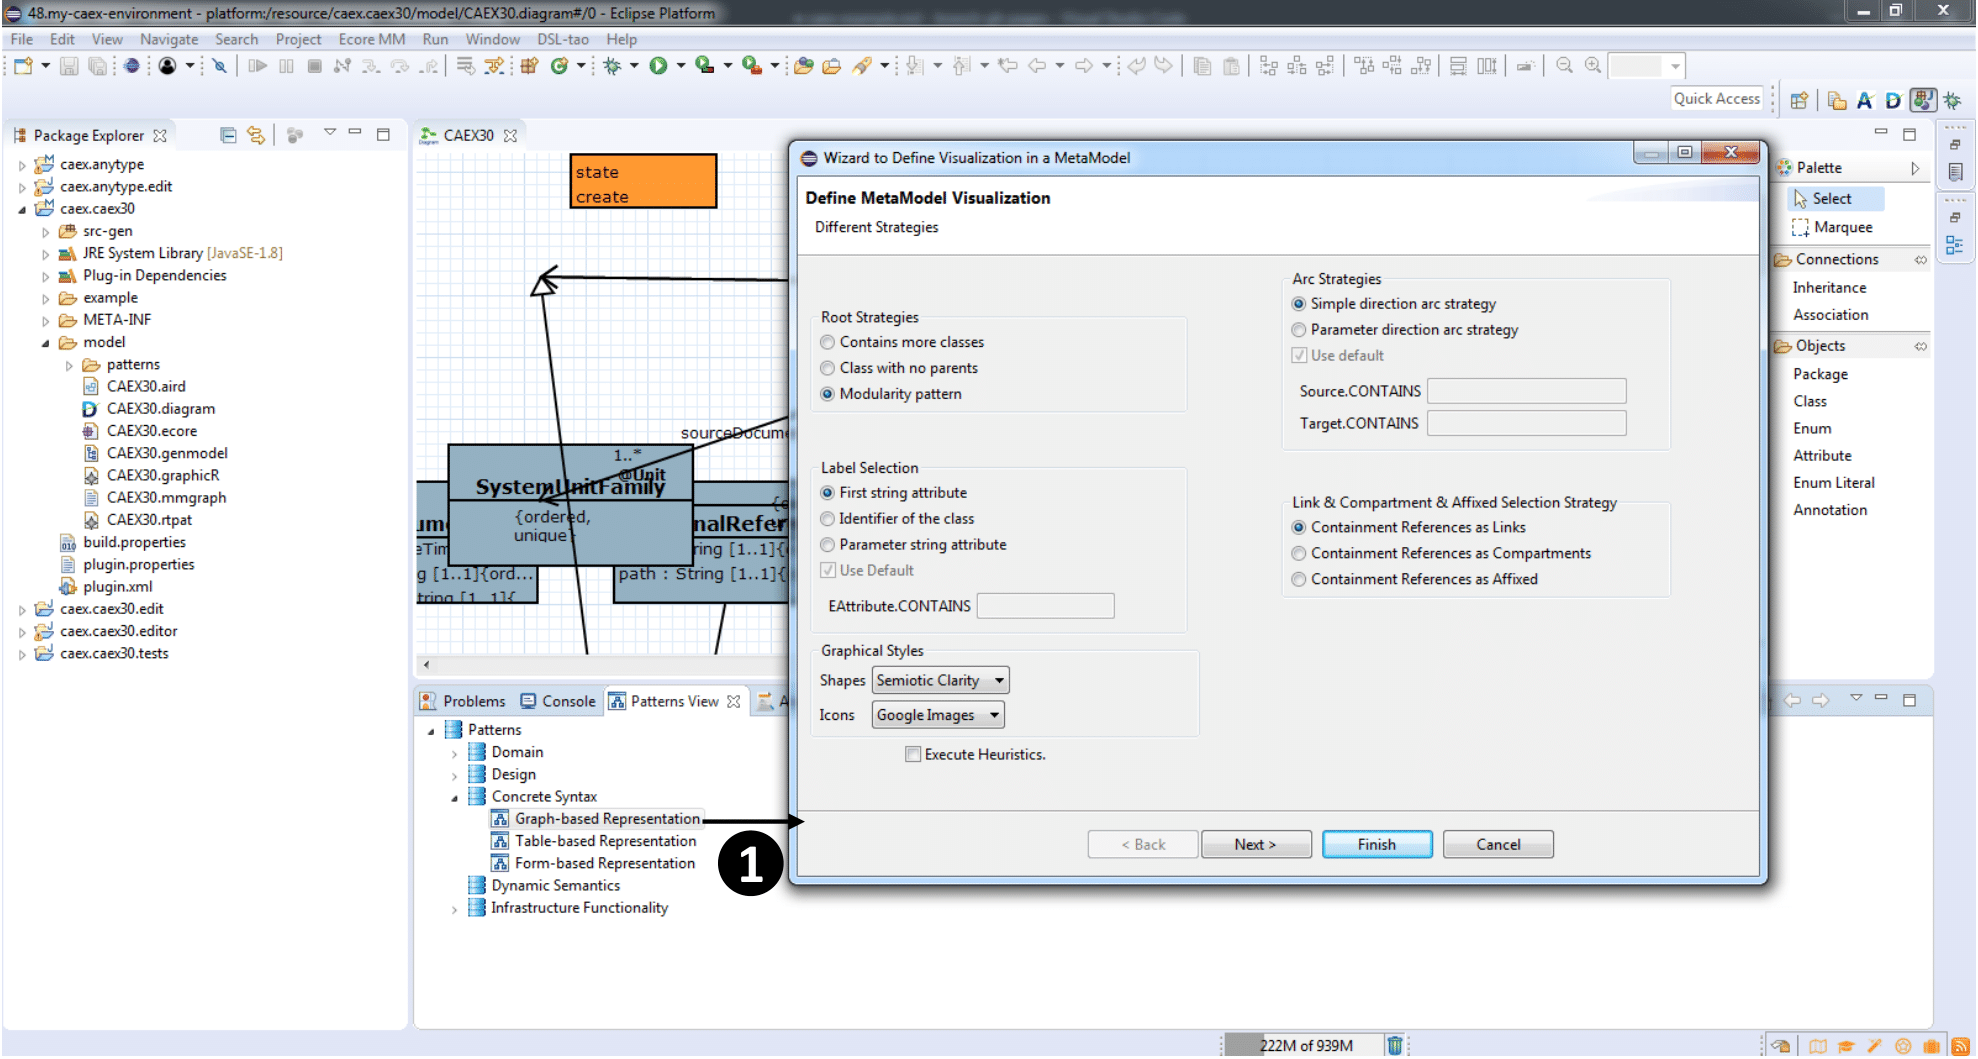
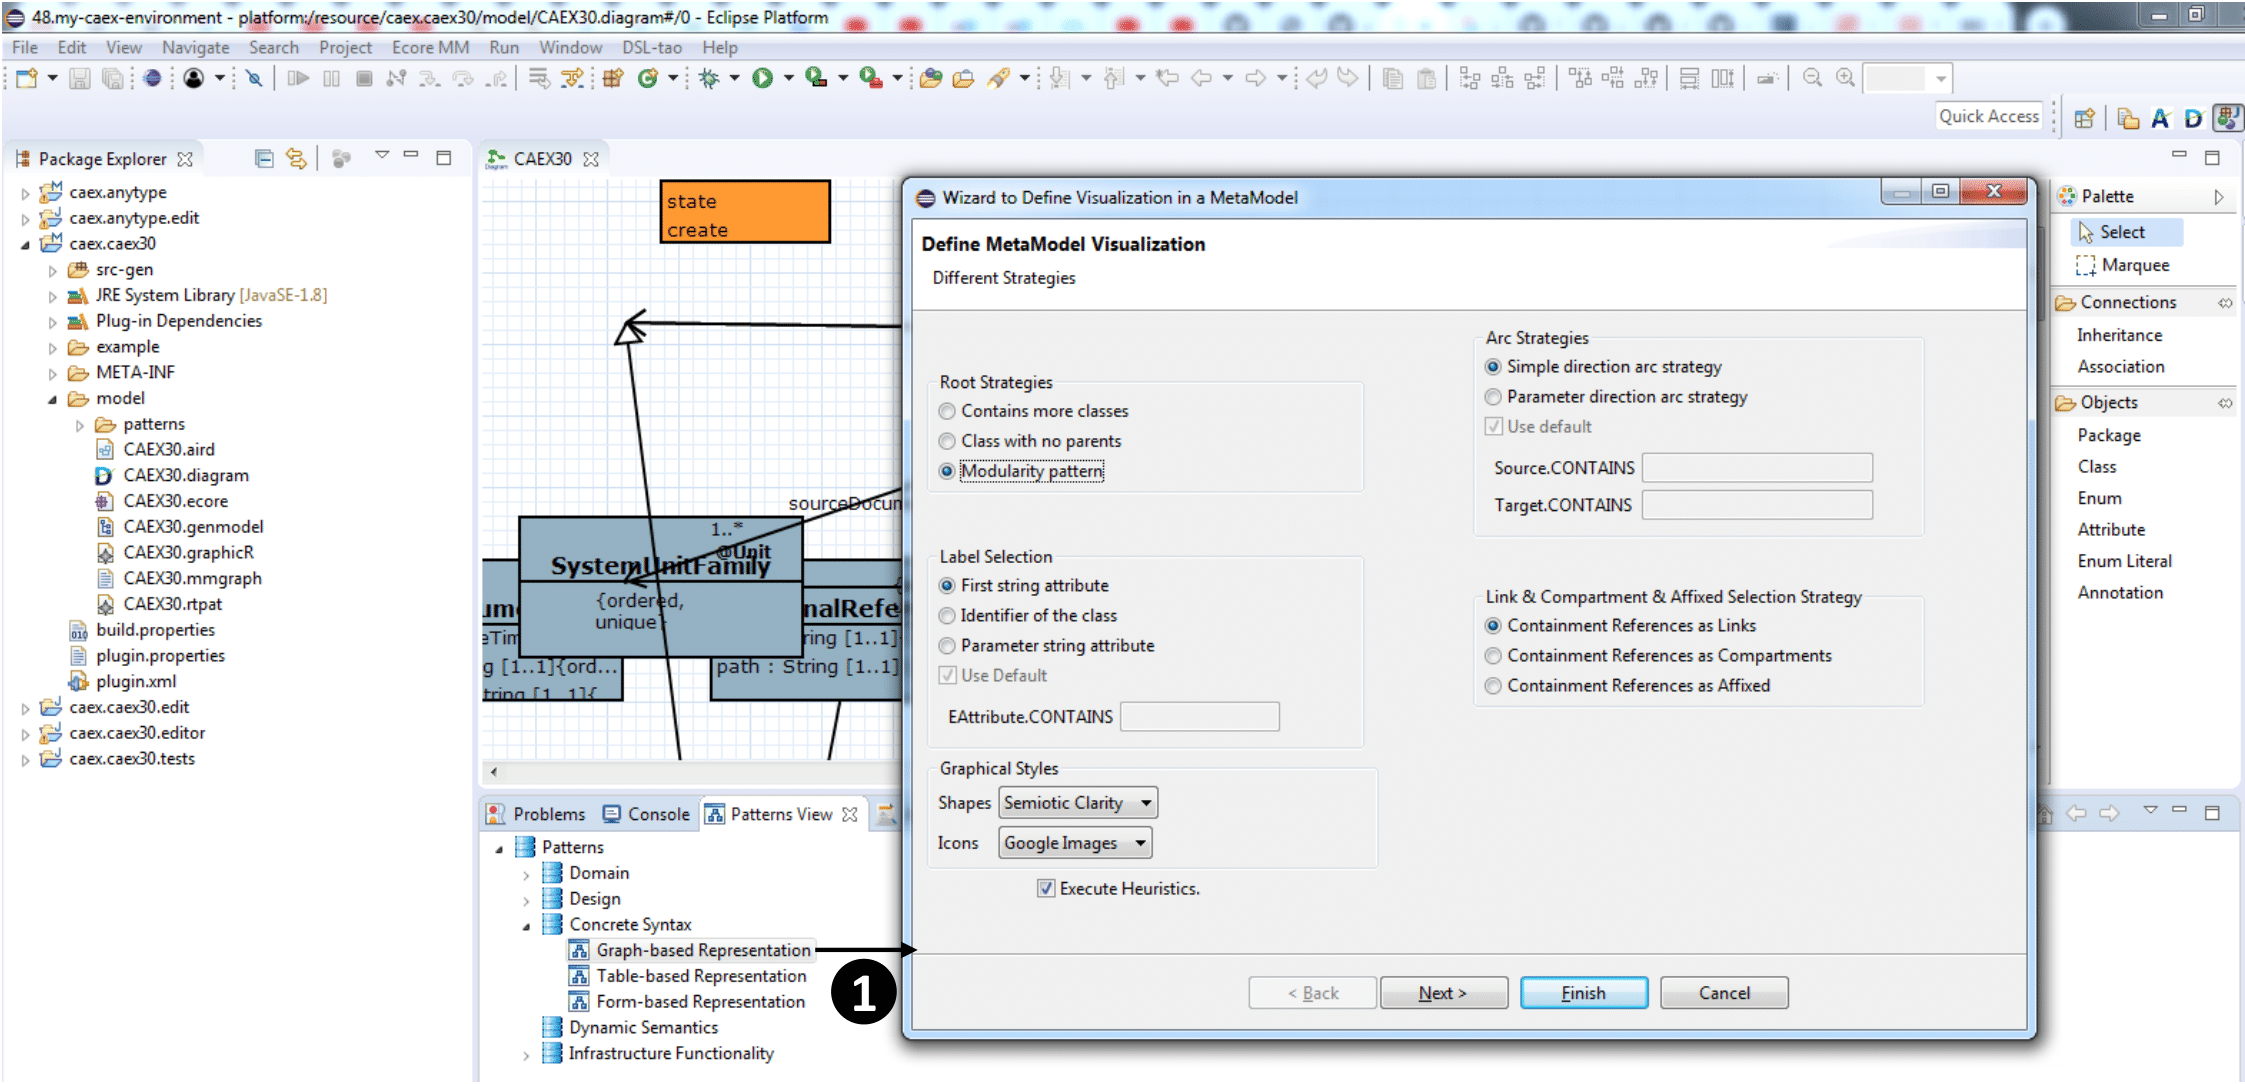
update image...

diff --git a/pages/caex-example.md b/pages/caex-example.md
@@ -19,7 +19,7 @@ In order to create an environment for the CAEX, we base on the Github repository
 
 2. The next step required to create a graphical environment is to assign a concrete syntax. To do this, we are going to use the EMF-Stencil dedicated wizard. Using the "Patterns View" provided by DSL-tao, double click on "Graph-based representation" (label 1).
 
-    __First page of the wizard to assign a concrete syntax__: heuristics
+    __First page of the wizard to assign a concrete syntax__: offers several heuristics that the DSL designer can select to produce a default representation.
     ![First page of the wizard to assign a concrete syntax](../assets/img/concrete-syntax-emf-stencil.png)
 
 
